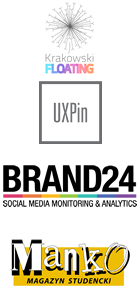
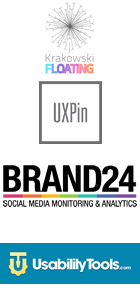
added utools

Changed region(s): [[0.0, 0.78, 1.0, 0.96]]

diff --git a/index.html b/index.html
@@ -864,8 +864,8 @@ Marta skończyła Informatykę na AGH, w zeszłym roku wraz ze znajomymi z uczel
                     </a>
                   </li>
                   <li>
-                    <a href="http://manko.pl">
-                      <img src="assets/tr.png" class="manko">
+                    <a href="http://usabilitytools.com">
+                      <img src="assets/tr.png" class="tools">
                     </a>
                   </li>
                 </ul>
@@ -923,6 +923,11 @@ Marta skończyła Informatykę na AGH, w zeszłym roku wraz ze znajomymi z uczel
                   <li>
                     <a href="http://wKrakowie.pl">
                       <img src="assets/tr.png" class="wkrakowie">
+                    </a>
+                  </li>
+                  <li>
+                    <a href="http://manko.pl">
+                      <img src="assets/tr.png" class="manko">
                     </a>
                   </li>
 

diff --git a/css/wud.css b/css/wud.css
@@ -446,7 +446,7 @@
     background-position: 0px -75px; }
   #sponsorzy .brand24 {
     background-position: 0px -150px; }
-  #sponsorzy .manko {
+  #sponsorzy .tools {
     background-position: 0px -225px; }
   #sponsorzy .patrons img {
     background-image: url(../assets/sponsors/patrons.png);
@@ -473,6 +473,8 @@
     background-position: 0px -600px; }
   #sponsorzy .wkrakowie {
     background-position: 0px -675px; }
+  #sponsorzy .manko {
+    background-position: 0px -750px; }
 
 footer {
   background-color: #fe6521;

diff --git a/scss/_sponsorzy.scss b/scss/_sponsorzy.scss
@@ -88,7 +88,7 @@
     background-position: 0px -75px; }
   .brand24 {
     background-position: 0px -150px; }
-  .manko {
+  .tools {
     background-position: 0px -225px; }
   .patrons img {
     background-image: url(../assets/sponsors/patrons.png);
@@ -115,5 +115,7 @@
     background-position: 0px -600px; }
   .wkrakowie {
     background-position: 0px -675px; }
+  .manko {
+    background-position: 0px -750px; }
 
 }
